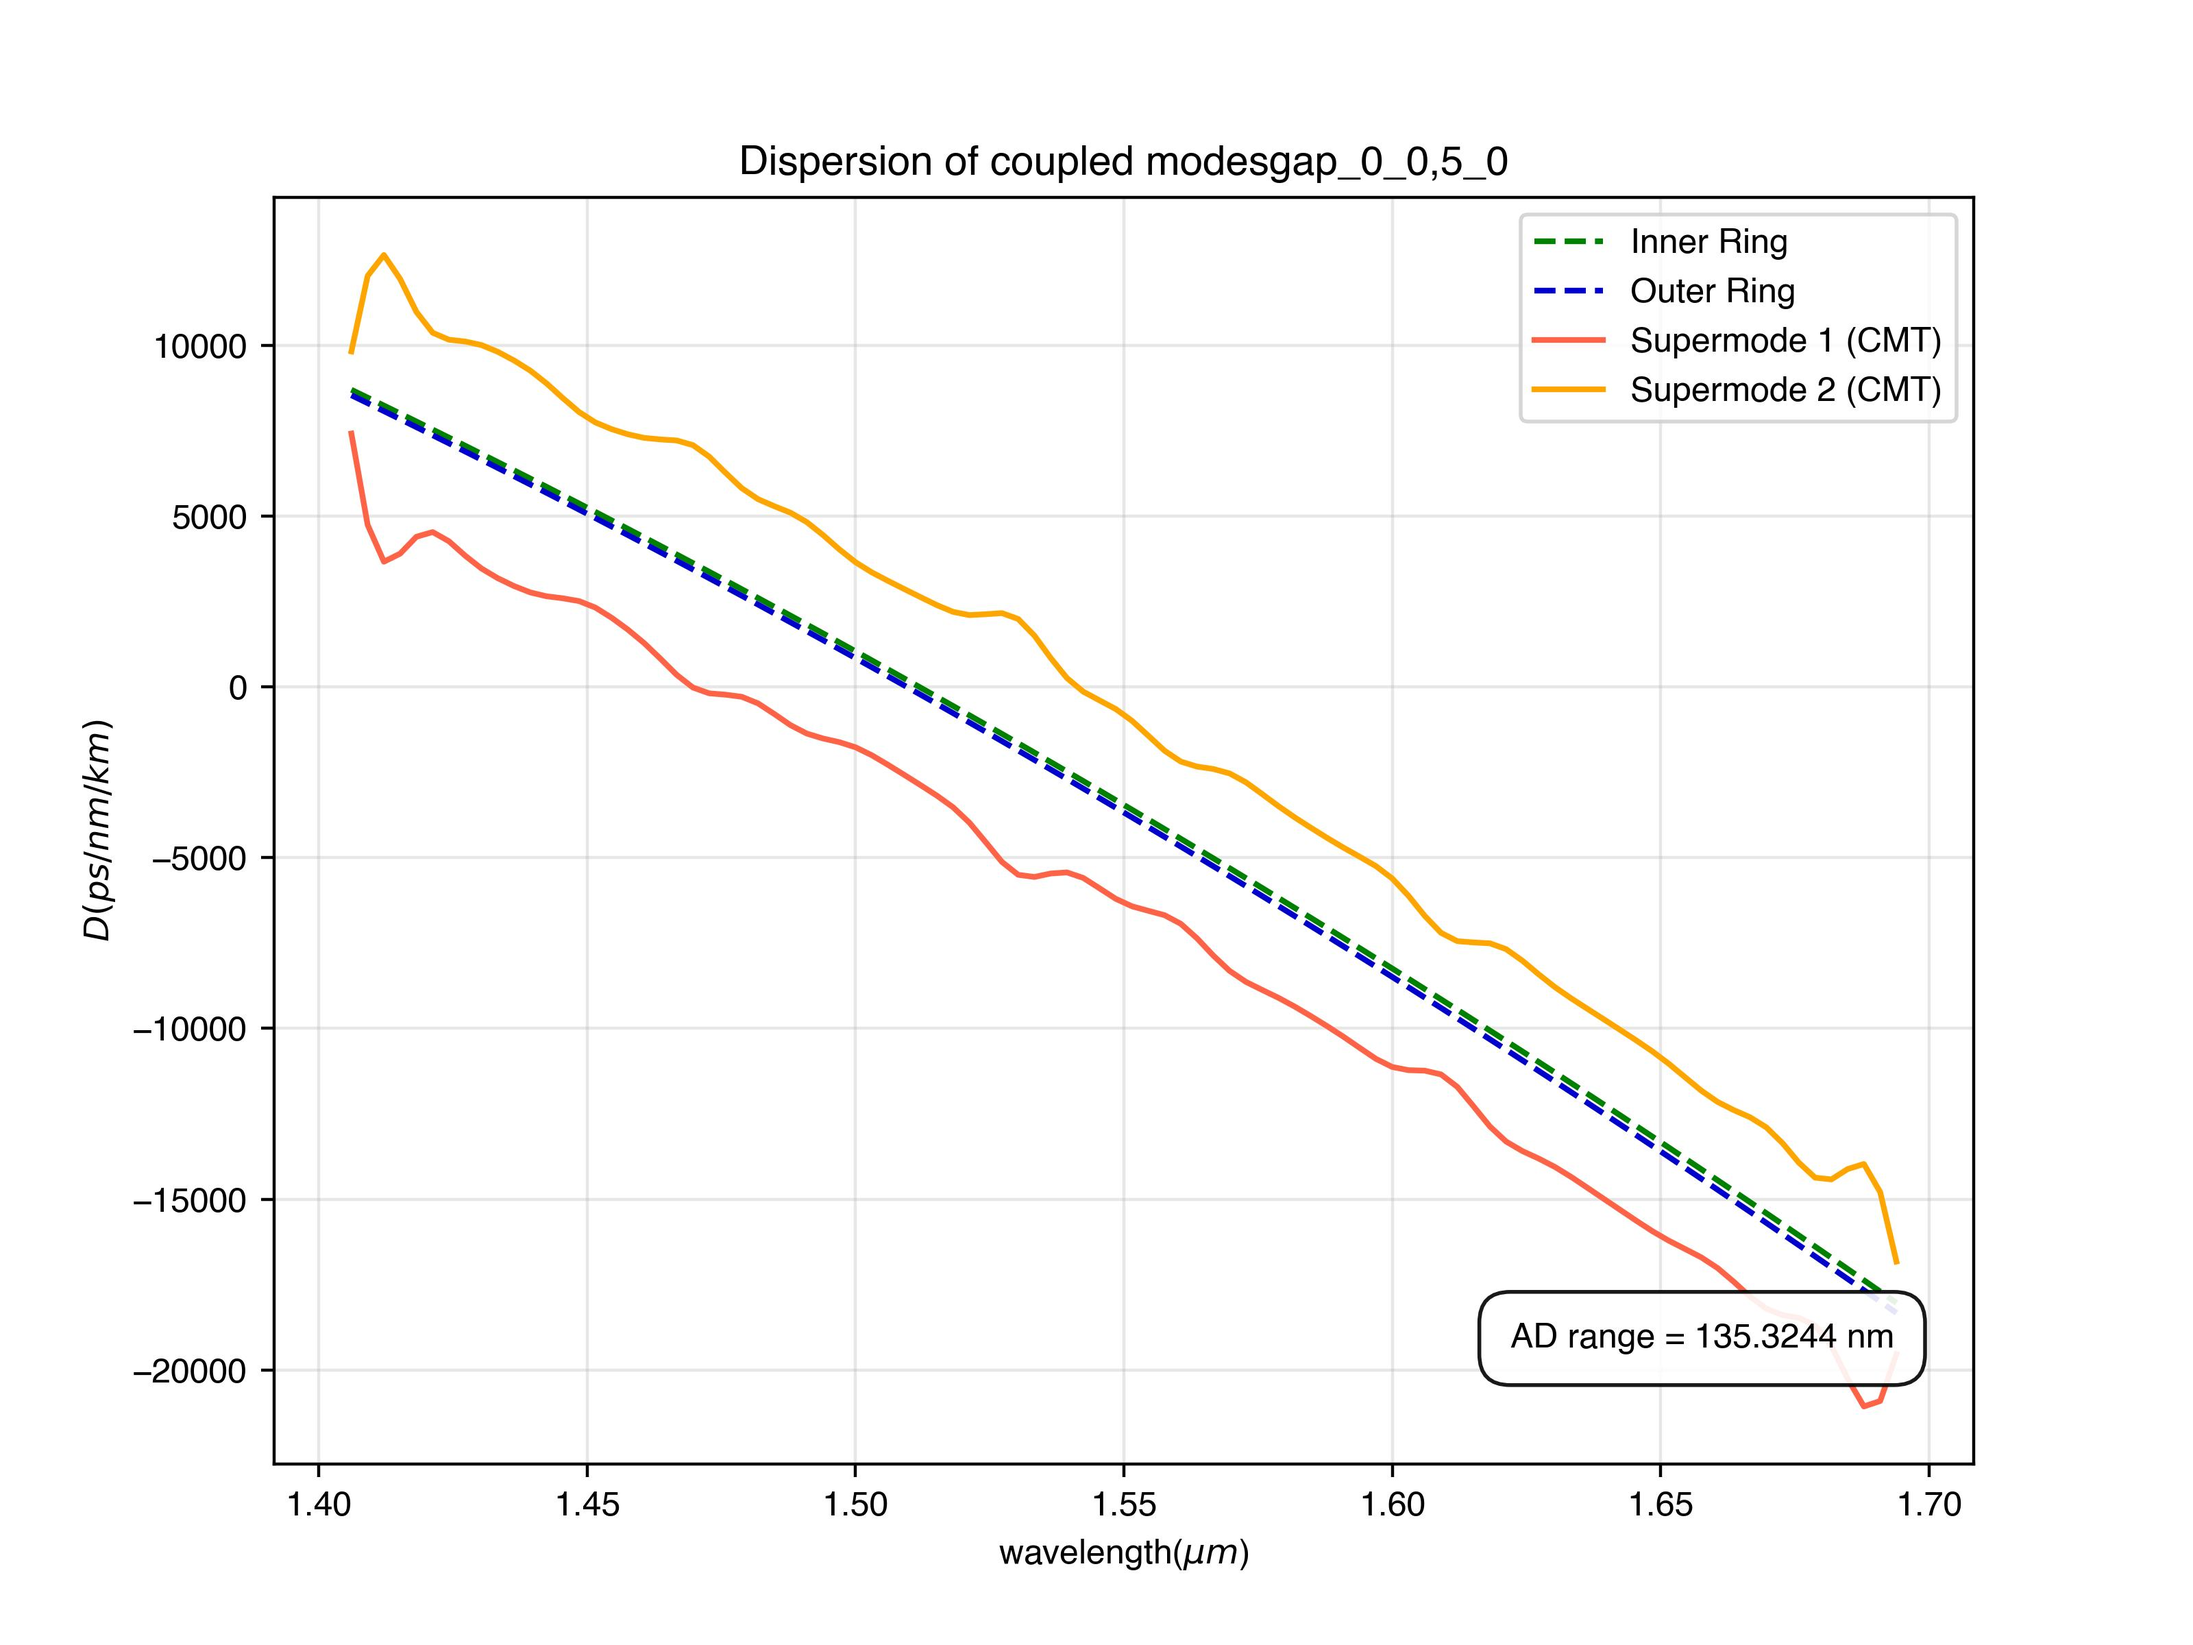
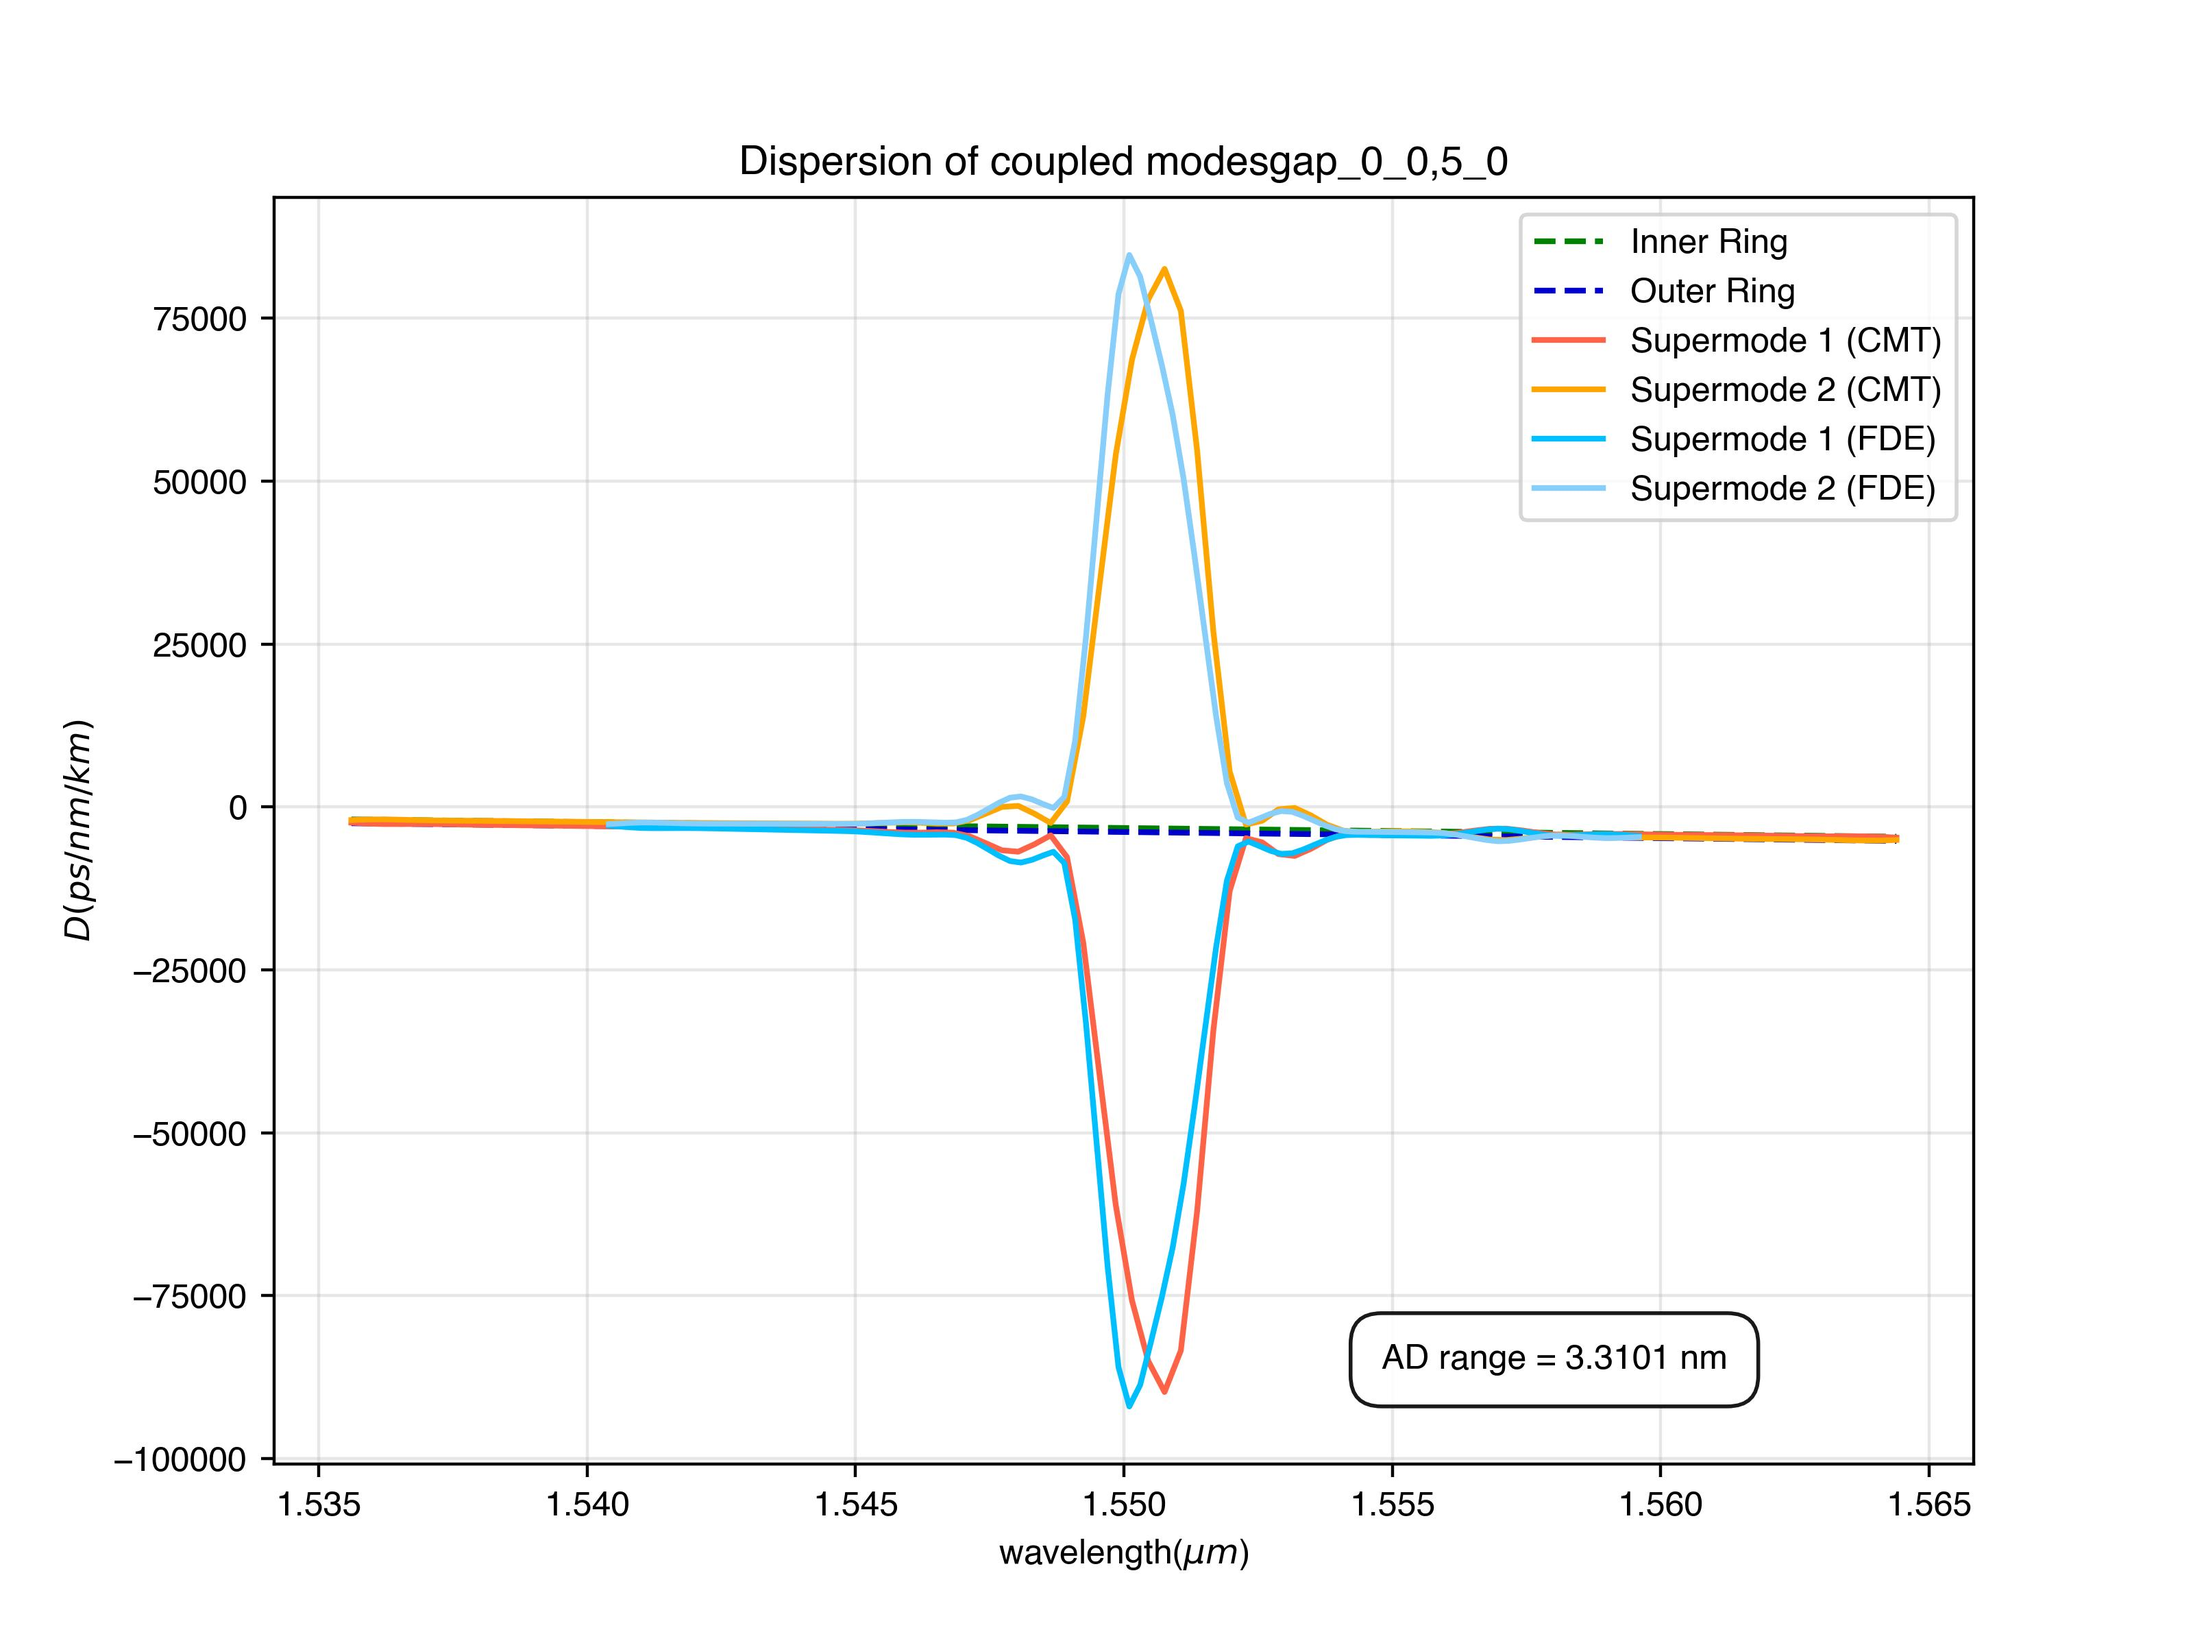
changed main.lsf, calc InnerRing L inner 2.8 um

diff --git a/main.py b/main.py
@@ -74,7 +74,7 @@ if __name__ == '__main__':
     foldername1 = "../data/Mode Profiles/"+\
                     "InnerRing_L_inner_8um_1535_1565_31wavls"
     foldername2 = "../data/Mode Profiles/"+\
-                    "OuterRing_L_inner_8um_gap_5um_L_outer_2436nm_1535_1565nm_31wavls"
+                    "OuterRingDesigned_L_inner_8um_gap_5um_L_outer_2436nm_1535_1565nm_31wavls"
     # foldername2 = "../data/Mode Profiles/"+\
     #                 "OuterRingDesigned_L_inner_8um_gap_4um_2589nm_1535_1565_31wavls"
 
@@ -96,39 +96,39 @@ if __name__ == '__main__':
     ############################################################
 
     ################## Vertical double rings ###################
-    foldername1 = "../data/Mode Profiles/"+\
-                    "UpperRing_L_2_8um_y_0um_1400_1700_31wavls_1000x500"
-    foldername2 = "../data/Mode Profiles/"+\
-                    "LowerRing_L_2_8um_y_-5um_1400_1700_31wavls_1000x500"
+    # foldername1 = "../data/Mode Profiles/"+\
+    #                 "UpperRing_L_2_8um_y_0um_1400_1700_31wavls_1000x500"
+    # foldername2 = "../data/Mode Profiles/"+\
+    #                 "LowerRing_L_2_8um_y_-5um_1400_1700_31wavls_1000x500"
     ############################################################
 
     filename_uncoupled_gap4um = "results/L_inner_8um_gapx_5&4um/gapx_4um/beta_uncoupled_gap_4.txt"
     filename_coupled_gap4um = "results/L_inner_8um_gapx_5&4um/gapx_4um/beta_coupled_gap_4.txt"
 
-    # filename_uncoupled_gap5um = "../data/beta_uncoupled_gap_5.txt"
-    # filename_coupled_gap5um = "../data/beta_coupled_gap_5.txt"
+    filename_uncoupled_gap5um = "results/L_inner_8um_gapx_5&4um/gapx_5um/beta_uncoupled_gap_5.txt"
+    filename_coupled_gap5um = "results/L_inner_8um_gapx_5&4um/gapx_5um/beta_coupled_gap_5.txt"
 
     filename_lumerical_gap4um = "results/L_inner_8um_gapx_5&4um/gapx_4um/Lumerical_supermodes_results_gapx_4um.txt"
-    # filename_lumerical_gap5um = "../data/Lumerical_supermodes_results_gap_5.txt"
+    filename_lumerical_gap5um = "results/L_inner_8um_gapx_5&4um/gapx_5um/Lumerical_supermodes_results_gapx_5um.txt"
 
     # unit: nm
-    wavl_arr = np.linspace(1400,1700,31)
+    # wavl_arr = np.linspace(1400,1700,31)
     # wavl_arr = np.linspace(1500,1600,11)
-    # wavl_arr = np.linspace(1535,1565,31)
+    wavl_arr = np.linspace(1535,1565,31)
 
-    param_filename = "./Param_vertical.csv"
-    # param_filename = "./Param_L_inner_8.csv"
+    # param_filename = "./Param_vertical.csv"
+    param_filename = "./Param_L_inner_8.csv"
     # param_filename = "./Param_L_inner_2_8.csv"
     # param_filename = "./Param_800x400.csv"
 
     ########################## Scan gap ###########################
-    start_gap_x   = 0
-    end_gap_x     = 0
+    start_gap_x   = 5
+    end_gap_x     = 5
     num_of_gaps_x = 1
     gap_arr_x = np.linspace(start_gap_x,end_gap_x,num_of_gaps_x)
 
-    start_gap_y   = 5
-    end_gap_y     = 5
+    start_gap_y   = 0
+    end_gap_y     = 0
     num_of_gaps_y = 1
     gap_arr_y = np.linspace(start_gap_y,end_gap_y,num_of_gaps_y)
 
@@ -140,8 +140,8 @@ if __name__ == '__main__':
                                 index_file2 = "SiO2_index.txt",
                                 foldername1 = foldername1,
                                 foldername2 = foldername2,
-                                param_filename=param_filename)
-    # beta_uncoupled_arr,beta_coupled_arr,beta_ave_uncoupled_arr = sweeper.Scan_wavl(gap_idx=0)
+                                param_filename = param_filename)
+    beta_uncoupled_arr,beta_coupled_arr,beta_ave_uncoupled_arr = sweeper.Scan_wavl(gap_idx=0)
     # sweeper.Scan_gap()
     ############################################################
 
@@ -150,4 +150,8 @@ if __name__ == '__main__':
     #                          filename_uncoupled_gap4um, filename_coupled_gap4um,
     #                          param_filename, Lumerical_data_exist=True,
     #                          filename_lumerical=filename_lumerical_gap4um,num_of_pts=100)
+    # Analyzer = Data_analyzer(wavl_arr, gap_arr[0,:],
+    #                          filename_uncoupled_gap5um, filename_coupled_gap5um,
+    #                          param_filename, Lumerical_data_exist=True,
+    #                          filename_lumerical=filename_lumerical_gap5um,num_of_pts=100)
 
